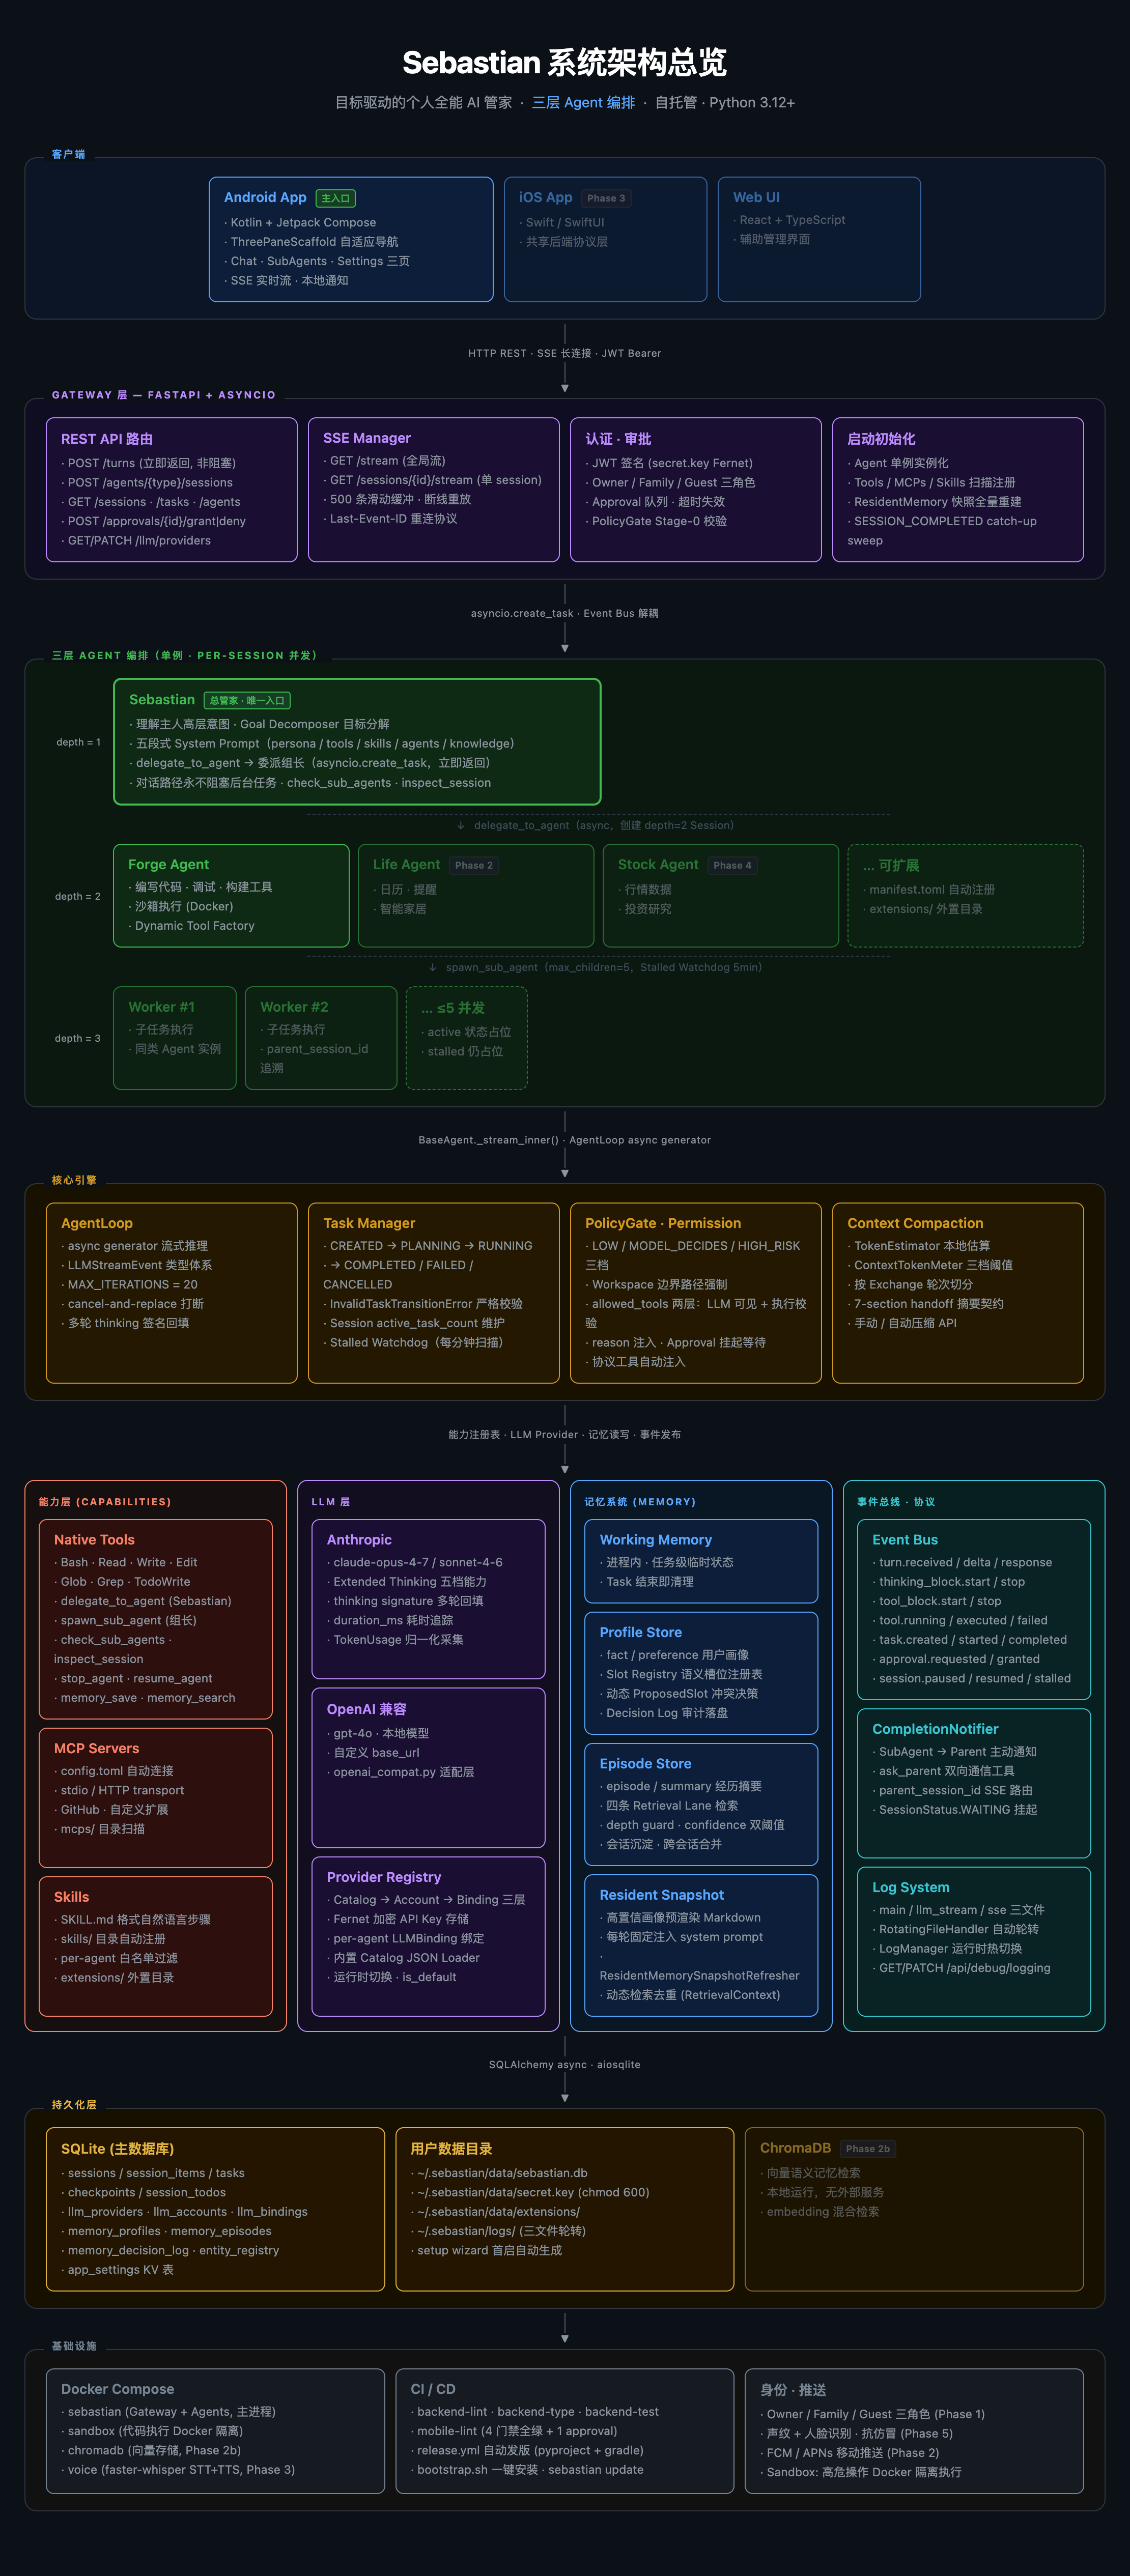
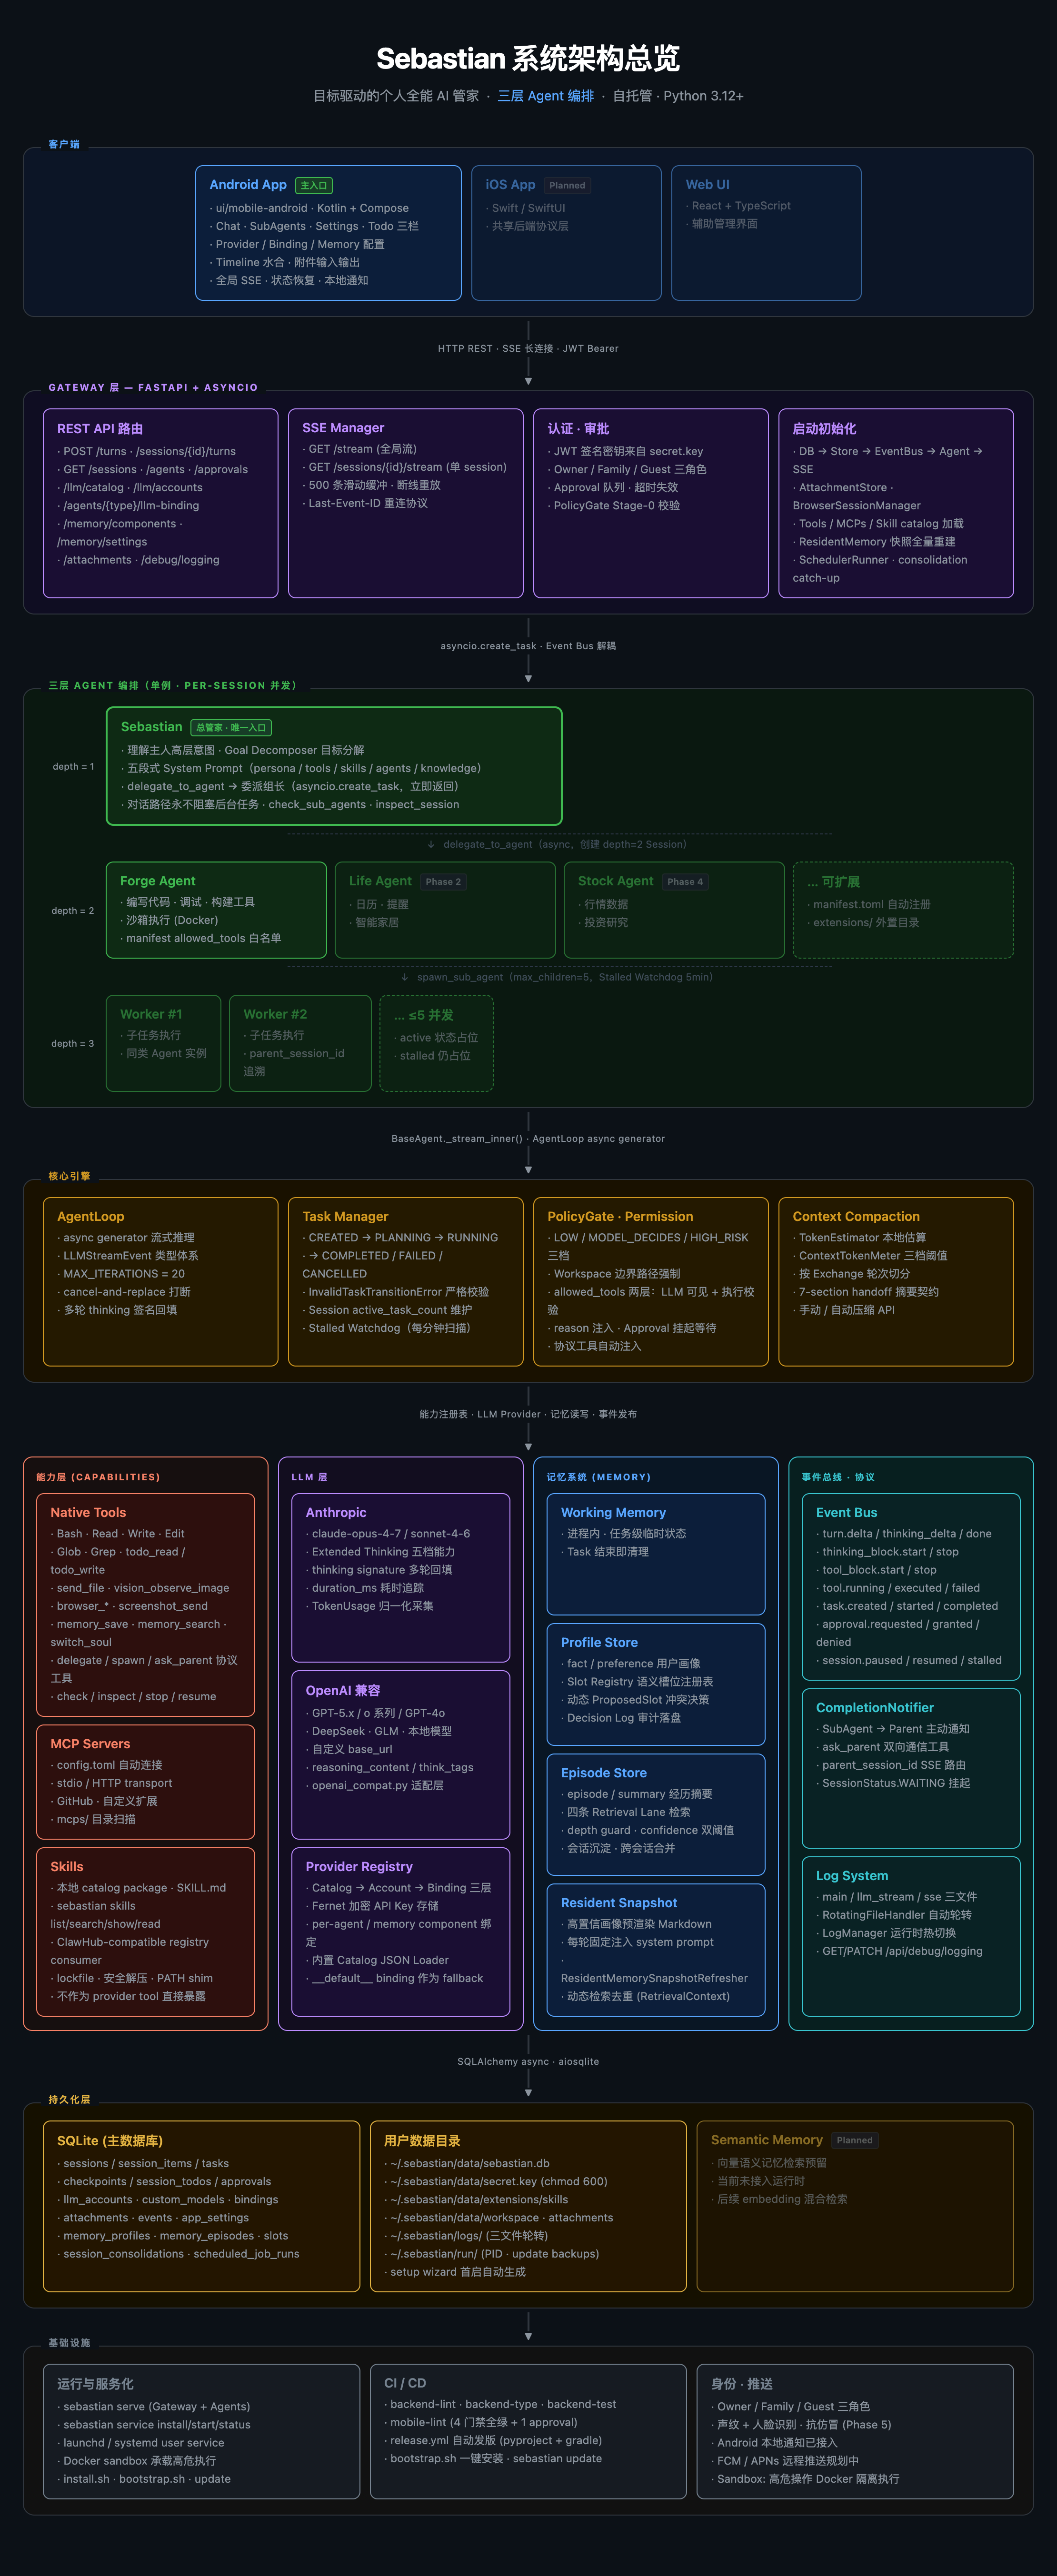
update README and architecture doc

diff --git a/docs/architecture/diagrams/system-overview.html b/docs/architecture/diagrams/system-overview.html
@@ -280,14 +280,15 @@
       <div class="card c-blue" style="max-width:280px;">
         <h3>Android App <span class="badge badge-primary">主入口</span></h3>
         <ul>
-          <li>Kotlin + Jetpack Compose</li>
-          <li>ThreePaneScaffold 自适应导航</li>
-          <li>Chat · SubAgents · Settings 三页</li>
-          <li>SSE 实时流 · 本地通知</li>
+          <li>ui/mobile-android · Kotlin + Compose</li>
+          <li>Chat · SubAgents · Settings · Todo 三栏</li>
+          <li>Provider / Binding / Memory 配置</li>
+          <li>Timeline 水合 · 附件输入输出</li>
+          <li>全局 SSE · 状态恢复 · 本地通知</li>
         </ul>
       </div>
       <div class="card c-blue dim" style="max-width:200px;">
-        <h3>iOS App <span class="badge badge-phase">Phase 3</span></h3>
+        <h3>iOS App <span class="badge badge-phase">Planned</span></h3>
         <ul>
           <li>Swift / SwiftUI</li>
           <li>共享后端协议层</li>
@@ -317,11 +318,12 @@
       <div class="card c-purple">
         <h3>REST API 路由</h3>
         <ul>
-          <li>POST /turns (立即返回, 非阻塞)</li>
-          <li>POST /agents/{type}/sessions</li>
-          <li>GET  /sessions · /tasks · /agents</li>
-          <li>POST /approvals/{id}/grant|deny</li>
-          <li>GET/PATCH /llm/providers</li>
+          <li>POST /turns · /sessions/{id}/turns</li>
+          <li>GET /sessions · /agents · /approvals</li>
+          <li>/llm/catalog · /llm/accounts</li>
+          <li>/agents/{type}/llm-binding</li>
+          <li>/memory/components · /memory/settings</li>
+          <li>/attachments · /debug/logging</li>
         </ul>
       </div>
       <div class="card c-purple">
@@ -336,7 +338,7 @@
       <div class="card c-purple">
         <h3>认证 · 审批</h3>
         <ul>
-          <li>JWT 签名 (secret.key Fernet)</li>
+          <li>JWT 签名密钥来自 secret.key</li>
           <li>Owner / Family / Guest 三角色</li>
           <li>Approval 队列 · 超时失效</li>
           <li>PolicyGate Stage-0 校验</li>
@@ -345,10 +347,11 @@
       <div class="card c-purple">
         <h3>启动初始化</h3>
         <ul>
-          <li>Agent 单例实例化</li>
-          <li>Tools / MCPs / Skills 扫描注册</li>
+          <li>DB → Store → EventBus → Agent → SSE</li>
+          <li>AttachmentStore · BrowserSessionManager</li>
+          <li>Tools / MCPs / Skill catalog 加载</li>
           <li>ResidentMemory 快照全量重建</li>
-          <li>SESSION_COMPLETED catch-up sweep</li>
+          <li>SchedulerRunner · consolidation catch-up</li>
         </ul>
       </div>
     </div>
@@ -396,7 +399,7 @@
             <ul>
               <li>编写代码 · 调试 · 构建工具</li>
               <li>沙箱执行 (Docker)</li>
-              <li>Dynamic Tool Factory</li>
+              <li>manifest allowed_tools 白名单</li>
             </ul>
           </div>
           <div class="card c-green dim">
@@ -521,12 +524,12 @@
         <h3>Native Tools</h3>
         <ul>
           <li>Bash · Read · Write · Edit</li>
-          <li>Glob · Grep · TodoWrite</li>
-          <li>delegate_to_agent (Sebastian)</li>
-          <li>spawn_sub_agent (组长)</li>
-          <li>check_sub_agents · inspect_session</li>
-          <li>stop_agent · resume_agent</li>
-          <li>memory_save · memory_search</li>
+          <li>Glob · Grep · todo_read / todo_write</li>
+          <li>send_file · vision_observe_image</li>
+          <li>browser_* · screenshot_send</li>
+          <li>memory_save · memory_search · switch_soul</li>
+          <li>delegate / spawn / ask_parent 协议工具</li>
+          <li>check / inspect / stop / resume</li>
         </ul>
       </div>
       <div class="card c-red">
@@ -541,10 +544,11 @@
       <div class="card c-red">
         <h3>Skills</h3>
         <ul>
-          <li>SKILL.md 格式自然语言步骤</li>
-          <li>skills/ 目录自动注册</li>
-          <li>per-agent 白名单过滤</li>
-          <li>extensions/ 外置目录</li>
+          <li>本地 catalog package · SKILL.md</li>
+          <li>sebastian skills list/search/show/read</li>
+          <li>ClawHub-compatible registry consumer</li>
+          <li>lockfile · 安全解压 · PATH shim</li>
+          <li>不作为 provider tool 直接暴露</li>
         </ul>
       </div>
     </div>
@@ -565,8 +569,10 @@
       <div class="card c-purple">
         <h3>OpenAI 兼容</h3>
         <ul>
-          <li>gpt-4o · 本地模型</li>
+          <li>GPT-5.x / o 系列 / GPT-4o</li>
+          <li>DeepSeek · GLM · 本地模型</li>
           <li>自定义 base_url</li>
+          <li>reasoning_content / think_tags</li>
           <li>openai_compat.py 适配层</li>
         </ul>
       </div>
@@ -575,9 +581,9 @@
         <ul>
           <li>Catalog → Account → Binding 三层</li>
           <li>Fernet 加密 API Key 存储</li>
-          <li>per-agent LLMBinding 绑定</li>
+          <li>per-agent / memory component 绑定</li>
           <li>内置 Catalog JSON Loader</li>
-          <li>运行时切换 · is_default</li>
+          <li>__default__ binding 作为 fallback</li>
         </ul>
       </div>
     </div>
@@ -627,12 +633,12 @@
       <div class="card c-teal">
         <h3>Event Bus</h3>
         <ul>
-          <li>turn.received / delta / response</li>
+          <li>turn.delta / thinking_delta / done</li>
           <li>thinking_block.start / stop</li>
           <li>tool_block.start / stop</li>
           <li>tool.running / executed / failed</li>
           <li>task.created / started / completed</li>
-          <li>approval.requested / granted</li>
+          <li>approval.requested / granted / denied</li>
           <li>session.paused / resumed / stalled</li>
         </ul>
       </div>
@@ -673,11 +679,11 @@
         <h3>SQLite (主数据库)</h3>
         <ul>
           <li>sessions / session_items / tasks</li>
-          <li>checkpoints / session_todos</li>
-          <li>llm_providers · llm_accounts · llm_bindings</li>
-          <li>memory_profiles · memory_episodes</li>
-          <li>memory_decision_log · entity_registry</li>
-          <li>app_settings KV 表</li>
+          <li>checkpoints / session_todos / approvals</li>
+          <li>llm_accounts · custom_models · bindings</li>
+          <li>attachments · events · app_settings</li>
+          <li>memory_profiles · memory_episodes · slots</li>
+          <li>session_consolidations · scheduled_job_runs</li>
         </ul>
       </div>
       <div class="card c-orange">
@@ -685,17 +691,19 @@
         <ul>
           <li>~/.sebastian/data/sebastian.db</li>
           <li>~/.sebastian/data/secret.key (chmod 600)</li>
-          <li>~/.sebastian/data/extensions/</li>
+          <li>~/.sebastian/data/extensions/skills</li>
+          <li>~/.sebastian/data/workspace · attachments</li>
           <li>~/.sebastian/logs/ (三文件轮转)</li>
+          <li>~/.sebastian/run/ (PID · update backups)</li>
           <li>setup wizard 首启自动生成</li>
         </ul>
       </div>
       <div class="card c-orange dim">
-        <h3>ChromaDB <span class="badge badge-phase">Phase 2b</span></h3>
+        <h3>Semantic Memory <span class="badge badge-phase">Planned</span></h3>
         <ul>
-          <li>向量语义记忆检索</li>
-          <li>本地运行，无外部服务</li>
-          <li>embedding 混合检索</li>
+          <li>向量语义记忆检索预留</li>
+          <li>当前未接入运行时</li>
+          <li>后续 embedding 混合检索</li>
         </ul>
       </div>
     </div>
@@ -711,12 +719,13 @@
     <span class="sect-label" style="color:var(--gray);">基础设施</span>
     <div class="row">
       <div class="card c-gray">
-        <h3>Docker Compose</h3>
+        <h3>运行与服务化</h3>
         <ul>
-          <li>sebastian (Gateway + Agents, 主进程)</li>
-          <li>sandbox (代码执行 Docker 隔离)</li>
-          <li>chromadb (向量存储, Phase 2b)</li>
-          <li>voice (faster-whisper STT+TTS, Phase 3)</li>
+          <li>sebastian serve (Gateway + Agents)</li>
+          <li>sebastian service install/start/status</li>
+          <li>launchd / systemd user service</li>
+          <li>Docker sandbox 承载高危执行</li>
+          <li>install.sh · bootstrap.sh · update</li>
         </ul>
       </div>
       <div class="card c-gray">
@@ -731,9 +740,10 @@
       <div class="card c-gray">
         <h3>身份 · 推送</h3>
         <ul>
-          <li>Owner / Family / Guest 三角色 (Phase 1)</li>
+          <li>Owner / Family / Guest 三角色</li>
           <li>声纹 + 人脸识别 · 抗仿冒 (Phase 5)</li>
-          <li>FCM / APNs 移动推送 (Phase 2)</li>
+          <li>Android 本地通知已接入</li>
+          <li>FCM / APNs 远程推送规划中</li>
           <li>Sandbox: 高危操作 Docker 隔离执行</li>
         </ul>
       </div>

diff --git a/README.zh-CN.md b/README.zh-CN.md
@@ -59,10 +59,10 @@ Sebastian 是一个目标驱动的个人全能 AI 管家系统。你只需告诉
 - 🏠 **自托管，隐私优先** — 跑在你自己的机器上，不依赖云服务，数据不外泄。
 - 🤖 **三层 Agent 架构** — Sebastian（总管家）委派组长，组长分派组员。你的目标被**执行**，而不只是被回复。
 - 📱 **Android 原生客户端** — 流式响应实时显示、思考过程可视化、工具调用卡片。Kotlin + Jetpack Compose 构建。
-- 🔧 **零配置扩展** — 新增工具、MCP 服务、Skill、子代理只需创建文件并重启，无需改动核心代码。
+- 🔧 **零配置扩展** — 通过本地包与 manifest 扩展工具、MCP 服务、Skill、子代理，无需改动核心代码。
 - 🧠 **持久记忆系统** — 记住你的偏好与历史对话。画像事实、情景记忆、常驻快照每轮固定注入，越用越懂你。
 - 🔒 **权限与审批机制** — 敏感操作需要主人批准。三档风险分类（低 / 模型判断 / 高风险）。
-- 🚀 **动态工具工厂** — 代理发现缺少工具时，可以自己编写、沙箱测试、注册永久使用 —— 全自动。
+- 🧩 **Skill 包与浏览器工具** — 支持搜索/安装本地 Skill，通过 Playwright 浏览器工具查看网页，并把文件、截图、图片或下载结果发送回时间线。
 
 ## 已实现功能
 
@@ -72,8 +72,11 @@ Sebastian 是一个目标驱动的个人全能 AI 管家系统。你只需告诉
 - ✅ 敏感操作审批通知
 - ✅ LLM 服务商配置（Anthropic、OpenAI、自定义 base URL）
 - ✅ 持久记忆 — 用户画像、情景历史、常驻快照
+- ✅ Skill 包管理器 — 本地 catalog、registry 安装/更新/移除、安全渐进读取
+- ✅ 浏览器工具 — 打开、观察、操作、截图、视觉查看网页，并把下载作为 artifact 发送
+- ✅ 附件能力 — 发送图片/文本文件，接收 Agent 生成的图片/文件/下载 artifact
 - ✅ 会话与任务历史，支持 Timeline 历史恢复
-- ✅ 一键安装、升级与自动回滚
+- ✅ 一键安装、服务注册、升级与自动回滚
 - ✅ 无头服务器初始化
 
 ## ⚡ 快速开始
@@ -95,6 +98,8 @@ https://raw.githubusercontent.com/PhantomButler/Sebastian/main/docs/AGENTIC_DEPL
 Agent 会读取 [Agentic 部署指南](docs/AGENTIC_DEPLOYMENT.md)，帮你补齐
 Python/Conda 等基础环境，运行 Sebastian 安装器，设置开机自启，并引导你完成
 Cloudflare / Tailscale / 局域网访问配置。
+Sebastian 已包含浏览器工具所需的 Playwright Python 依赖，但本机 Chromium runtime
+需要在 Sebastian 运行环境中单独执行 `python -m playwright install chromium` 安装。
 
 ### 手动安装服务端（macOS / Linux）
 
@@ -134,12 +139,60 @@ cd "${TAR%.tar.gz}"
 ## 🧭 常用命令
 
 ```bash
+sebastian version                            # 查看已安装 Sebastian 版本
 sebastian serve                              # 启动服务（首次启动会打开初始化向导）
 sebastian serve --host 0.0.0.0 --port 8823   # 自定义绑定地址
 sebastian init --headless                    # 无头初始化（适用于无图形界面的服务器）
+sebastian status                             # 查看进程/服务状态
+sebastian service status                     # 查看系统服务诊断
 sebastian update                             # 升级到最新版本（失败自动回滚）
 sebastian update --check                     # 仅检查更新，不执行升级
+sebastian skills search flight               # 搜索本地已安装 Skill
+sebastian skills search flight --source registry
+sebastian skills inspect flight-search
+sebastian skills install flight-search
+sebastian skills list
+sebastian skills show flight-search
+sebastian skills show flight-search --body
+sebastian skills read flight-search references/usage.md
+sebastian skills update flight-search
+sebastian skills remove flight-search
 ```
+
+服务化安装时，`sebastian update` 会在升级完成后自动重启 active 的 systemd/launchd 服务。
+安装和升级会创建稳定 CLI shim：`~/.sebastian/bin/sebastian`，并默认把该目录写入支持的
+zsh/bash rc 文件；设置 `SEBASTIAN_SKIP_PATH_SETUP=1` 可跳过 PATH 写入。
+
+运行时配置保存在 `~/.sebastian/.env`；自定义 `SEBASTIAN_DATA_DIR` 时，配置位于
+`<SEBASTIAN_DATA_DIR>/.env`。服务模式读取这里的配置，例如
+`SEBASTIAN_BROWSER_UPSTREAM_PROXY`。源码仓库 `.env` 仅用于本地源码开发。
+
+## 🧩 Skill 包
+
+Sebastian 可以从 ClawHub-compatible registry 安装第三方 Skill：
+
+```bash
+sebastian skills search "flight" --source registry
+sebastian skills inspect flight-search
+sebastian skills install flight-search
+sebastian skills list
+sebastian skills search "flight"
+sebastian skills show flight-search
+sebastian skills show flight-search --body
+sebastian skills read flight-search references/usage.md
+sebastian skills update flight-search
+sebastian skills remove flight-search
+```
+
+`sebastian skills search <query>` 默认只搜索本地已安装 Skill。需要查找新 Skill 时才使用
+`--source registry`。默认 registry 是 `https://clawhub.ai`；远端搜索、检查和安装按
+显式 `--registry <url>` → `SEBASTIAN_SKILLS_REGISTRY_URL` → 默认 registry 的顺序解析。
+变更命令在使用非默认有效 registry 时会要求确认。安装包位于
+`~/.sebastian/data/extensions/skills`，本地 Skill 内容通过 `show --body` 和 `read` 按需读取。
+
+内置 `skill_manager` Skill 可让 Sebastian 按安全流程协助你查看、安装、更新或移除 Skill：
+它会先列出/读取本地说明，安装/更新/移除前要求明确确认，不运行第三方脚本，也不绕过不安全
+registry 状态。
 
 ## 🖥️ 作为系统服务运行
 
@@ -213,9 +266,9 @@ sudo loginctl enable-linger $USER
 | 阶段 | 重点 | 状态 |
 |------|------|------|
 | **Phase 1** | 核心引擎、三层 Agent、Android App、Gateway、SSE | ✅ 已完成 |
-| **Phase 2** | 记忆系统、Forge Agent、推送通知、Skills | 🔄 进行中 |
-| **Phase 3** | 语音管道、iOS App、触发器引擎 | 📋 计划中 |
-| **Phase 4** | 高级触发器、更多子代理、Web UI 完善 | 📋 计划中 |
+| **Phase 2** | 记忆系统、Forge Agent、本地通知、Skills、附件、浏览器工具 | ✅ 基本完成 |
+| **Phase 3** | 语音管道、iOS App、远程推送、面向用户的触发器工作流 | 📋 计划中 |
+| **Phase 4** | 更多子代理、高级主动工作流、Web UI 完善 | 📋 计划中 |
 | **Phase 5** | 生物识别、多因素权限、审计日志 | 📋 计划中 |
 
 ## 📚 文档

diff --git a/README.md b/README.md
@@ -59,10 +59,10 @@ Sebastian is a goal-driven personal AI butler system. Tell it what you want — 
 - 🏠 **Self-hosted & private** — Runs on your machine. No cloud dependency, no data leaks.
 - 🤖 **Three-tier agent architecture** — Sebastian (head butler) delegates to team leads, who dispatch workers. Your goals get executed, not just answered.
 - 📱 **Native Android app** — Real-time streaming responses, thinking blocks, tool call cards. Built with Kotlin + Jetpack Compose.
-- 🔧 **Zero-config extensibility** — Add tools, MCP servers, skills, and sub-agents by creating files. No core code changes needed.
+- 🔧 **Zero-config extensibility** — Add tools, MCP servers, skills, and sub-agents through local packages and manifest files. No core code changes needed.
 - 🧠 **Persistent memory** — Remembers your preferences and past interactions. Profile facts, episodic history, and a resident snapshot injected into every conversation.
 - 🔒 **Permission & approval system** — Sensitive operations require your approval. Three-tier risk classification (Low / Model-Decides / High-Risk).
-- 🚀 **Dynamic Tool Factory** — When an agent needs a tool that doesn't exist, it can write one, test it in a sandbox, and register it — all autonomously.
+- 🧩 **Skill packages & browser tools** — Search/install local Skills, inspect web pages with Playwright browser tools, and send files, screenshots, images, or downloads back into the timeline.
 
 ## What's Built
 
@@ -72,9 +72,12 @@ Sebastian is a goal-driven personal AI butler system. Tell it what you want — 
 - ✅ Approval notifications for sensitive operations
 - ✅ LLM provider configuration (Anthropic, OpenAI, custom base URL)
 - ✅ Persistent memory — profile facts, episodic history, resident snapshot
+- ✅ Skill package manager — local catalog, registry install/update/remove, safe progressive disclosure
+- ✅ Browser tools — open, observe, act, screenshot, visually inspect, and send downloads as artifacts
+- ✅ Attachments — send images/text files, receive agent-generated image/file/download artifacts
 - ✅ Tool call visualization & execution feedback
 - ✅ Session & task history with timeline hydration
-- ✅ One-click install, update & auto-rollback
+- ✅ One-click install, service setup, update & auto-rollback
 - ✅ Headless server initialization
 
 ## ⚡ Quick Start
@@ -291,9 +294,9 @@ For the full architecture spec, see [docs/architecture/spec/](docs/architecture/
 | Phase | Focus | Status |
 |-------|-------|--------|
 | **Phase 1** | Core engine, three-tier agents, Android app, gateway, SSE | ✅ Done |
-| **Phase 2** | Memory system, Forge agent, push notifications, skills | 🔄 In progress |
-| **Phase 3** | Voice pipeline, iOS app, trigger engine | 📋 Planned |
-| **Phase 4** | Advanced triggers, more sub-agents, Web UI | 📋 Planned |
+| **Phase 2** | Memory system, Forge agent, local notifications, skills, attachments, browser tools | ✅ Mostly done |
+| **Phase 3** | Voice pipeline, iOS app, remote push, user-facing trigger workflows | 📋 Planned |
+| **Phase 4** | More sub-agents, advanced proactive workflows, Web UI polish | 📋 Planned |
 | **Phase 5** | Biometric auth, multi-factor permissions, audit logging | 📋 Planned |
 
 ## 📚 Documentation